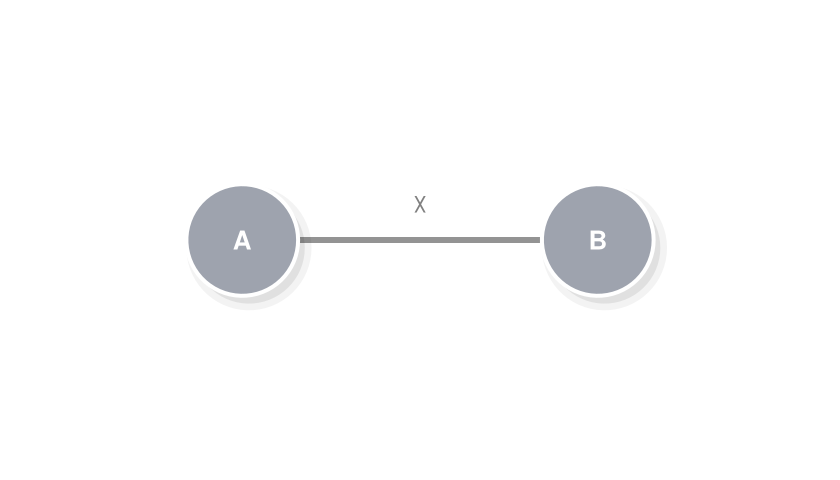
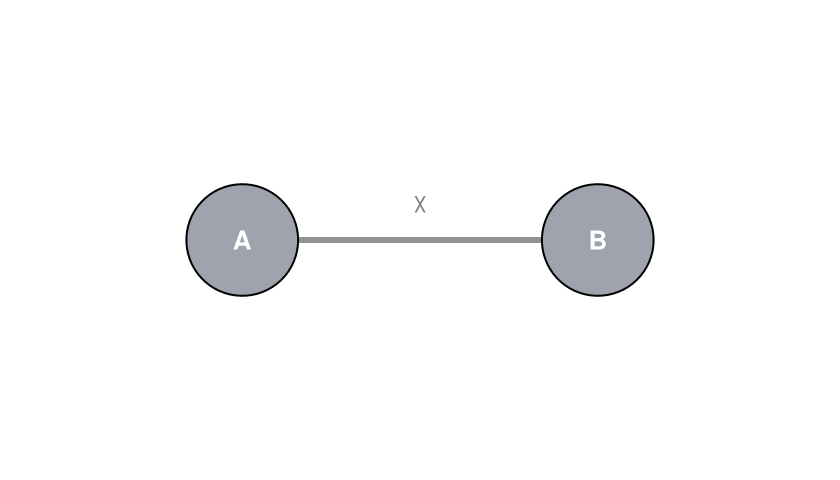
style: remove node drop shadows and white strokes
Both read as clutter rather than polish. Nodes are now flat fills with a
thin black outline, matching tensors.net's plain diagram style more closely.

diff --git a/docs/src/getting_started/gs1_tensors_and_indices.md b/docs/src/getting_started/gs1_tensors_and_indices.md
@@ -33,7 +33,7 @@ vL = upper(:vL, 2)     # virtual bond leg: inward / incoming → Upper → domai
 ````
 
 ````
-TIx{Upper}(:σ, 2)
+Qritical.TIx{Qritical.Upper}(:σ, 2)
 ````
 
 ````julia
@@ -67,7 +67,7 @@ A = QTensor(randn(χ, d, χ), (upper(:vL, χ), upper(:σ, d), lower(:vR, χ)))
 ````
 
 ````
-3×2×3 QTensor{Float64, 3, Array{Float64, 3}}:
+3×2×3 Qritical.QTensor{Float64, 3, Array{Float64, 3}}:
 [:, :, 1] =
  -0.480327  -1.21161
  -0.792592  -0.0679285
@@ -144,7 +144,7 @@ B = QTensor(randn(χ, d, χ), (upper(:vR, χ), upper(:σ2, d), lower(:vR2, χ)))
 ````
 
 ````
-3×2×3 QTensor{Float64, 3, Array{Float64, 3}}:
+3×2×3 Qritical.QTensor{Float64, 3, Array{Float64, 3}}:
 [:, :, 1] =
  -2.21643  0.607555
  -1.96055  1.47874
